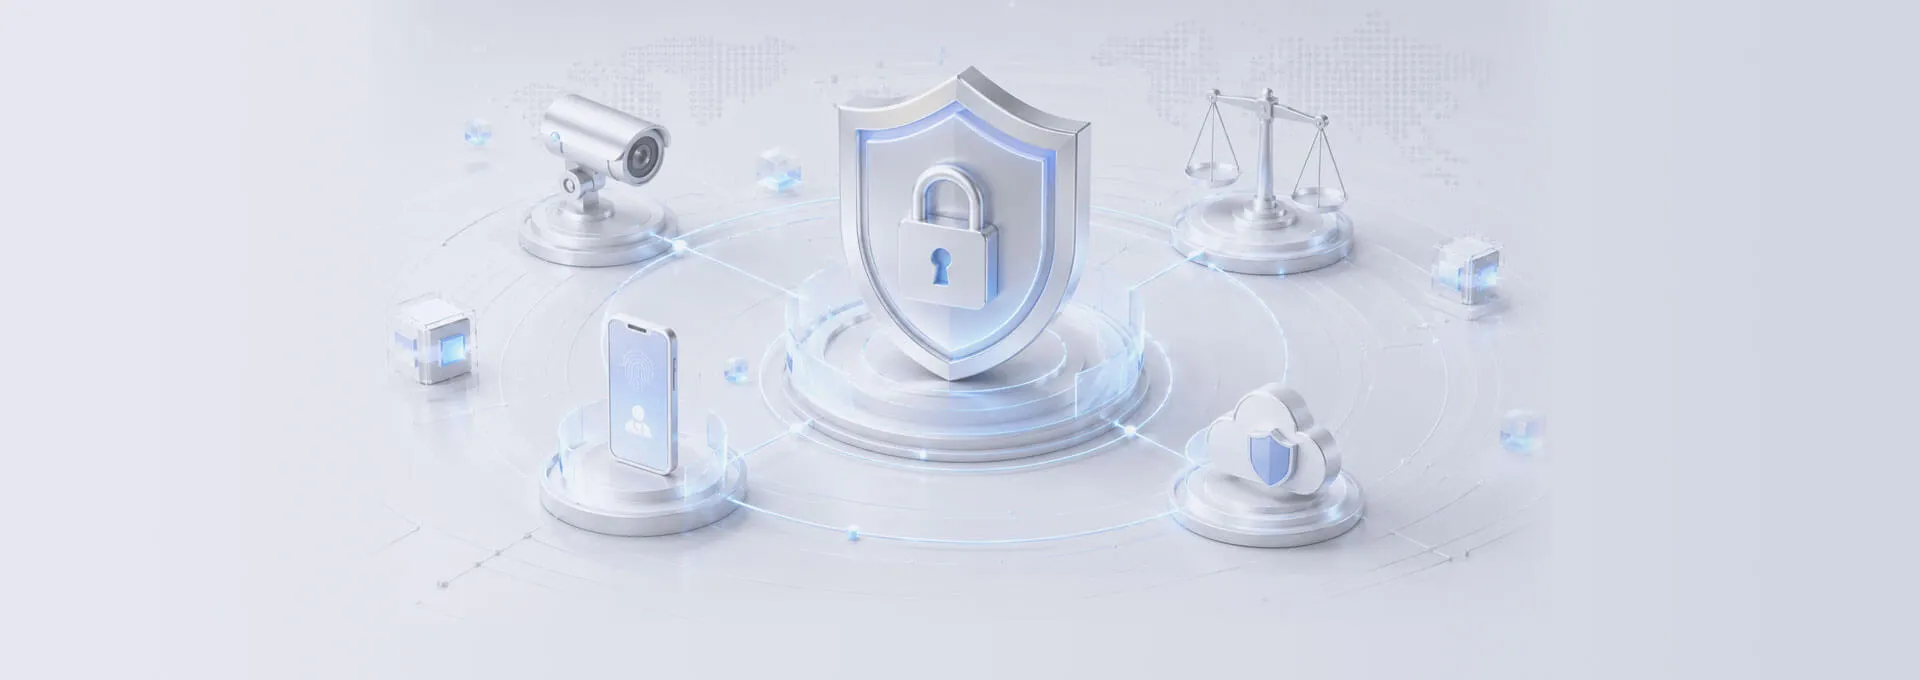
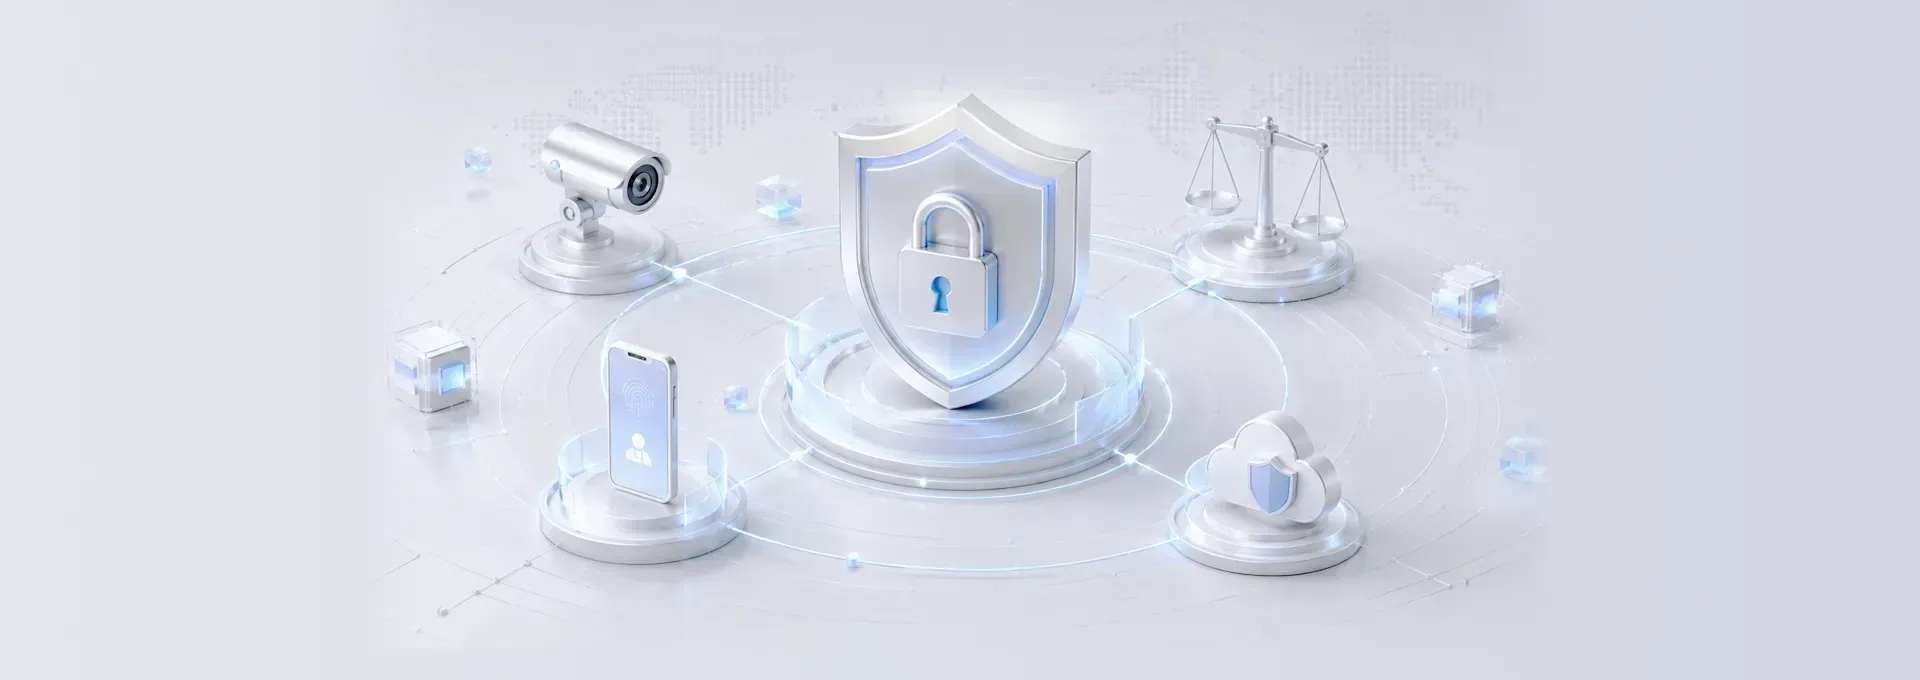
0731樣式修改

diff --git a/index-cn.html b/index-cn.html
@@ -6,8 +6,8 @@
 <meta name="viewport" content="width=device-width, user-scaleble=yes, initial-scale=1.0, maximum-scale=2.0" />
 <meta property="og:image" content="" />
 
-<title>MyCard形象官網</title>
-<meta name="description" content="MyCard形象官網">
+<title>MyCard形象官网</title>
+<meta name="description" content="MyCard形象官网">
 	
 <!-- favico -->
 <link rel="shortcut icon" type="image/x-icon" href="images/favicon_1.ico" />
@@ -115,42 +115,42 @@ $(function() {
 	  <div class="menu_icon"><img src="images/top_ber_menu.webp"></div>
 	  <div id="menu_list">
 		<div id="menu_close"><img src="images/top_ber_close.webp"></div>
-		<li id="tab1m">服務地區</li>
-		<li id="tab2m">整合行銷</li>
+		<li id="tab1m">服务地区</li>
+		<li id="tab2m">整合行销</li>
 		<li id="tab3m">安全交易</li>
 		<li id="tab4m">客服支援</li>
-		<li id="tab5m">合作廠商</li>
+		<li id="tab5m">合作厂商</li>
 		<li id="tab6m">合作流程</li>
 	  </div>
 	  <div class="logo"><img src="images/MyCard_logo.png"></div>
 	  <div class="menu">
-		<li id="tab1">服務地區</li>
-		<li id="tab2">整合行銷</li>
+		<li id="tab1">服务地区</li>
+		<li id="tab2">整合行销</li>
 		<li id="tab3">安全交易</li>
 		<li id="tab4">客服支援</li>
-		<li id="tab5">合作廠商</li>
+		<li id="tab5">合作厂商</li>
 		<li id="tab6">合作流程</li>
 	  </div>
-   	  <div class="btn">聯絡我們</div>
+   	  <div class="btn">联络我们</div>
     </div>
 	
 <!--主視覺-->
     <div id="main_visual">
 	  <div id="main_visual_title" data-wow-delay="0.2s" data-wow-offset="5" class="span3 wow bounceInRight center"></div>
-	  <div id="main_btn">聯絡我們</div>
+	  <div id="main_btn">联络我们</div>
 	  <div id="more"></div>
 	  <div id="diagram">
         <li class="p1">
-	      <h5><span class="amount">768</span>萬+</h5>
-		  <h6>MyCard會員數</h6>
+	      <h5><span class="amount">768</span>万+</h5>
+		  <h6>MyCard会员数</h6>
 		</li>
 		<dl class="p2">
-		  <h5><span class="amount">2210</span>萬+</h5>
-		  <h6>MyCard官網月流量</h6>
+		  <h5><span class="amount">2210</span>万+</h5>
+		  <h6>MyCard官网月流量</h6>
 		</dl>
 		<li class="p3">
-		  <h5><span class="amount">51</span>萬+</h5>
-		  <h6>MyCard社群人數</h6>
+		  <h5><span class="amount">51</span>万+</h5>
+		  <h6>MyCard社群人数</h6>
 		</li>
 		<dl class="p4">
 		  <h5><span class="amount">200+</h5>
@@ -158,39 +158,39 @@ $(function() {
 		</dl>
       </div>
     </div>
-    <!--全球遊戲支付領導品牌-->
+    <!--全球游戏支付领导品牌-->
     <div id="brand"> 
         <div class="text">
-		    <h1>全球遊戲支付領導品牌</h1>
-		    <h2>市占率第一、通路佈點最廣</h2>
-            <p>全面涵蓋臺灣、香港、澳門多元支付方式，是您進入華語及國際市場，觸及全球數億玩家及拓展遊戲版圖的最強合作夥伴。</p>
+		    <h1>全球游戏支付领导品牌</h1>
+		    <h2>市占率第一、通路布点最广</h2>
+            <p>全面涵盖台湾、香港、澳门多元支付方式，是您进入华语市场，触及数亿玩家的最强合作伙伴。</p>
 	    </div>
 		<div class="photo"><img src="images/brand_p1.webp"></div>
 	</div>
 	<div id="global_payment">
 		<h1>全球化的支付平台</h1>
-		<h2>簡單快速的支付流程</h2>
+		<h2>简单快速的支付流程</h2>
 		<ul>
 		  <li>
-			  <h1>國際佈局</h1>
-			  <p>MyCard於全球市場提供各地最受歡迎的支付方式。您只需透過MyCard，即可輕鬆開通全球支付，以最低開發成本快速完成全方位支付佈局。</p>
+			  <h1>国际布局</h1>
+			  <p>MyCard 于全球市场提供各地最受欢迎的支付方式。您只需透过MyCard，即可轻松开通全球支付，以最低开发成本快速完成全方位支付布局。</p>
 			  <div class="icon"><img src="images/global_payment_icon1.webp"></div>
 	      </li>
 		  <li>
 			  <h1>多元的支付方式</h1>
-			  <p>MyCard 提供最全面的多元支付，從線上支付到線下付款。包含信用卡、銀行轉帳、電信帳單、電子錢包、先買後付及商店繳費，MyCard全部都能支援。</p>
+			  <p>MyCard 提供最全面的多元支付，从线上支付到线下付款。包含信用卡、银行转帐、电信帐单、电子钱包、先买后付及商店缴费，MyCard 全部都能支援。</p>
 			  <div class="icon"><img src="images/global_payment_icon2.webp"></div>
 		  </li>
 		  <dl>
 			  <h1>MyCard點數</h1>
-			  <p>MyCard與台港各大便利商店、3C 賣場、連鎖賣場等實體通路夥伴，部署超過2萬個經銷點位，讓您的玩家隨時都能購買MyCard 點數。</p>
+			  <p>MyCard 与台港各大便利商店、3C 卖场、连锁卖场等实体通路伙伴，部署超过2万个经销点位，让您的玩家随时都能购买MyCard 点数。</p>
 			  <div class="icon2"><img src="images/global_payment_icon3.webp"></div>
 		  </dl>
 		</ul>
-		<dd>無論您的目標客戶身在何處，我們都能提供最符合當地習慣的支付服務，助您輕鬆實現全球化佈局</dd>
+		<dd>无论您的目标客户身在何处，我们都能提供最符合当地习惯的支付服务，助您轻松实现全球化布局</dd>
 	</div>
 	
-	<!--服務地區-->
+	<!--服务地区-->
 	<div id="map">
 <section class="world_map" data-aos="fade-up">
     <main class="app-main">
@@ -237,61 +237,61 @@ $(function() {
       <div id="methodTooltip" class="method-tooltip" role="tooltip"></div>
 	</div>
 
-	<!--整合行銷-->
+	<!--整合行销-->
 	<div id="marketing">
-	  <h1>整合行銷方案</h1>
-	  <h2>深耕遊戲領域多年，從遊戲推廣、多元支付到玩家服務</h2>
+	  <h1>整合行销方案</h1>
+	  <h2>深耕游戏领域多年，从游戏推广、多元支付到玩家服务</h2>
 	  <div class="step">
         <ul>
-		  <li data-wow-delay="0.1s" data-wow-offset="5" class="step1 span3 wow fadeInLeft center">品牌賦能</li>
+		  <li data-wow-delay="0.1s" data-wow-offset="5" class="step1 span3 wow fadeInLeft center">品牌赋能</li>
 		  <dl data-wow-delay="0.1s" data-wow-offset="5" class="step1_bg span3 wow fadeInLeft center">
 			  <div class="icon"><img src="images/marketing_icon1.webp"></div>
-			  <h3>行銷策略規劃</h3>
-			  <p>依遊戲特色規劃行銷主軸，整合故事、賣點與視覺，打造鮮明品牌資產並延續市場佈局。</p>
+			  <h3>行销策略规划</h3>
+			  <p>依游戏特色规划行销主轴，整合故事、卖点与视觉，打造鲜明品牌资产并延续市场布局。</p>
 		  </dl>
 		  <dl data-wow-delay="0.1s" data-wow-offset="5" class="step1_bg span3 wow fadeInLeft center">
 			  <div class="icon"><img src="images/marketing_icon2.webp"></div>
 			  <h3>品牌代言媒合</h3>
-			  <p>精選符合市場與遊戲風格的代言人及KOL，串聯多平台話題，提升品牌好感與聲量。</p>
+			  <p>精选符合市场与游戏风格的代言人及KOL，串联多平台话题，提升品牌好感与声量。</p>
 		  </dl>
 		</ul>
 		<ul>
-		  <li data-wow-delay="0.4s" data-wow-offset="5" class="step2 span3 wow fadeInLeft center">聲量造勢</li>
+		  <li data-wow-delay="0.4s" data-wow-offset="5" class="step2 span3 wow fadeInLeft center">声量造势</li>
 		   <dl data-wow-delay="0.4s" data-wow-offset="5" class="step2_bg span3 wow fadeInLeft center">
 			  <div class="icon"><img src="images/marketing_icon3.webp"></div>
-			  <h3>遊戲上市前預熱</h3>
-			  <p>運用MyCard通路與活動資源，推動事前登錄，快速累積玩家，擴大上市前聲量。</p>
+			  <h3>游戏上市前预热</h3>
+			  <p>运用 MyCard 通路与活动资源，推动事前登录，快速累积玩家，扩大上市前声量。</p>
 		  </dl>
 		  <dl data-wow-delay="0.4s" data-wow-offset="5" class="step2_bg span3 wow fadeInLeft center">
 			  <div class="icon"><img src="images/marketing_icon4.webp"></div>
-			  <h3>街頭玩家見面會<br>與活動策展</h3>
-			  <p>結合街頭玩家見面會、影音創作與活動策展，持續擴大新遊戲聲量與玩家互動。</p>
+			  <h3>街头玩家见面会<br>与活动策展</h3>
+			  <p>结合街头玩家见面会、影音创作与活动策展，持续扩大新游戏声量与玩家互动。</p>
 		  </dl>
 		</ul>
 		<ul>
 		  <li data-wow-delay="0.8s" data-wow-offset="5" class="step3 span3 wow fadeInLeft center">通路曝光</li>
 		  <dl data-wow-delay="0.8s" data-wow-offset="5" class="step3_bg span3 wow fadeInLeft center">
 			  <div class="icon"><img src="images/marketing_icon7.webp"></div>
-			  <h3>線上+線下全方位曝光</h3>
-			  <p>整合超商、銀行、賣場及線上廣告資源，打造高覆蓋推廣網，提升投放成效。</p>
+			  <h3>线上+线下全方位曝光</h3>
+			  <p>整合超商、银行、卖场及线上广告资源，打造高覆盖推广网，提升投放成效。</p>
 		  </dl>
 		  <dl data-wow-delay="0.8s" data-wow-offset="5" class="step3_bg span3 wow fadeInLeft center">
 			  <div class="icon"><img src="images/marketing_icon8.webp"></div>
-			  <h3>社群推廣&網站廣告</h3>
-			  <p>運用MyCard多平台資源，精準分眾行銷，提升互動與轉換。</p>
+			  <h3>社群推广&网站广告</h3>
+			  <p>运用 MyCard 多平台资源，精准分众行销，提升互动与转换。</p>
 		  </dl>
 		</ul>
 		<ul>
-		  <li data-wow-delay="1.2s" data-wow-offset="5" class="step4 span3 wow fadeInLeft center">異業聯名</li>
+		  <li data-wow-delay="1.2s" data-wow-offset="5" class="step4 span3 wow fadeInLeft center">异业联名</li>
 		  <dd data-wow-delay="1.2s" data-wow-offset="5" class="step4_bg span3 wow fadeInLeft center">
 			  <div class="icon"><img src="images/marketing_icon9.webp"></div>
-			  <h3>異業聯名企劃</h3>
-			  <p>整合品牌、餐飲、影視與零售資源，創造聯名話題與市場熱度。</p>
+			  <h3>异业联名企划</h3>
+			  <p>整合品牌、餐饮、影视与零售资源，创造联名话题与市场热度。</p>
 		  </dd>
 		  <dd data-wow-delay="1.2s" data-wow-offset="5" class="step4_bg span3 wow fadeInLeft center">
 			  <div class="icon"><img src="images/marketing_icon10.webp"></div>
-			  <h3>異業會員導流</h3>
-			  <p>串聯合作品牌會員生態圈，透過跨平台導流與異業點數兌換等機制，擴大玩家觸及並帶動新客獲取。</p>
+			  <h3>异业会员导流</h3>
+			  <p>串联合作品牌会员生态圈，透过跨平台导流与异业点数兑换等机制，扩大玩家触及并带动新客获取。</p>
 		  </dd>
 		</ul>
 	  </div>
@@ -299,27 +299,27 @@ $(function() {
 	
 	<!--安全交易-->
     <div id="security">
-      <h1>全方位交易安全解決方案</h1>
+      <h1>全方位交易安全解决方案</h1>
 	  <ul>
 		<li data-wow-delay="0.2s" data-wow-offset="5" class="span3 wow fadeInDown center">
 		  <dt><img src="images/security_icon1.webp"></dt>
-		  <h5>全天候智慧監控</h5>
-		  <p>24小時智慧監控，快速偵測異常交易，即時攔截詐欺與盜刷，全面守護客戶安全。</p>
+		  <h5>全天候智慧监控</h5>
+		  <p>24小时智慧监控，快速侦测异常交易，即时拦截诈欺与盗刷，全面守护客户安全。</p>
 		</li>
 		<li data-wow-delay="0.2s" data-wow-offset="5" class="span3 wow fadeInUp center">
 		  <dt><img src="images/security_icon2.webp"></dt>
-		  <h5>專業退單仲裁</h5>
-		  <p>MyCard 團隊的標準化退單仲裁流程，協助處理爭議，保障您的權益。</p>
+		  <h5>专业退单仲裁</h5>
+		  <p>MyCard 团队的标准化退单仲裁流程，协助处理争议，保障您的权益。</p>
 		</li>
 		<li data-wow-delay="0.2s" data-wow-offset="5" class="span3 wow fadeInDown center">
 		  <dt><img src="images/security_icon3.webp"></dt>
-		  <h5>FIDO無密碼驗證</h5>
-		  <p>導入FIDO驗證，防止帳號盜用，登入更安全便利，是保障資安與體驗的未來趨勢。</p>  
+		  <h5>FIDO无密码验证</h5>
+		  <p>导入FIDO验证，防止帐号盗用，登入更安全便利，是保障资安与体验的未来趋势。</p>  
 		</li>
 		<dl data-wow-delay="0.2s" data-wow-offset="5" class="span3 wow fadeInUp center">
 		  <dt><img src="images/security_icon4.webp"></dt>
-		  <h5>彈性風控策略</h5>
-		  <p>支援彈性風控設定，強化安全防護，降低交易風險，讓防線更貼合遊戲營運需求。</p>  
+		  <h5>弹性风控策略</h5>
+		  <p>支援弹性风控设定，强化安全防护，降低交易风险，让防线更贴合游戏营运需求。</p>  
 		</dl>
 	  </ul>
 	</div>
@@ -330,27 +330,26 @@ $(function() {
         <ul>
 	     <li>
             <ol><img src="images/customer_service_icon1.webp"></ol>
-	        <h6>消費體驗回饋</h6>
-	        <p>透過消費服務的回饋，轉化為玩家對您的遊戲品牌信任與持續消費。</p>
+	        <h6>消费体验回馈</h6>
+	        <p>透过消费服务的回馈，转化为玩家对您的游戏品牌信任与持续消费。</p>
           </li>
 	      <li>
 	        <ol><img src="images/customer_service_icon2.webp"></ol>
-	        <h6>全天候即時客服</h6>
-	        <p>MyCard提供24小時不間斷售後服務。確保玩家隨時順利儲值，加速您的遊戲成長與市場連結。</p>
+	        <h6>全天候即时客服</h6>
+	        <p>MyCard 提供24小时不间断售后服务。确保玩家随时顺利储值，加速您的游戏成长与市场连结。</p>
 	      </li>
 	      <dl>
 	        <ol><img src="images/customer_service_icon3.webp"></ol>
-	        <h6>跨語言支援</h6>
-	        <p>MyCard客服涵蓋中文、泰文、英文、印尼文等多語種，協助您處理跨國的支付與服務問題。</p>
+	        <h6>跨语言支援</h6>
+	        <p>MyCard 客服涵盖中文、泰文、英文、印尼文等多语种，协助您处理跨国的支付与服务问题。</p>
 	      </dl>
         </ul>
     </div>
 	
 	<!--選擇MyCard-->
 <div id="choice">
-  <h1>超過上千家遊戲公司選擇MyCard</h1>
-  <h2>MyCard支付平台深受台日韓頂尖手遊廠商信賴，攜手超過80%遊戲廠商，共創繁盛。<br>
-  更與PC端遊共同打造，提供玩家最好的支付體驗。</h2>
+  <h1>超过上千家游戏公司选择 MyCard</h1>
+  <h2>MyCard 支付平台深受台日韩顶尖手游厂商信赖，携手超过80%游戏厂商，共创繁盛。<br>更与PC端游共同打造，提供玩家最好的支付体验。</h2>
     	<ul data-wow-delay="0.2s" data-wow-offset="20" class="span3 wow bounceInRight center">
 	      <li><img src="images/game_icon/best_choice_1.webp"></li>
 	      <li><img src="images/game_icon/best_choice_2.webp"></li>
@@ -425,33 +424,33 @@ $(function() {
 	
 	<!--合作流程-->
 <div id="cooperate">
-		<h1>MyCard合作流程</h1>
-		<h2>我們建立簡單清楚的合作流程，讓客戶快速贏得優勢</h2>
+		<h1>MyCard 合作流程</h1>
+		<h2>我们建立简单清楚的合作流程，让客户快速赢得优势</h2>
 		<ul>
 		  <li>
 		    <dt>Step.1</dt>
-		    <dd>洽談合作</dd>
+		    <dd>洽谈合作</dd>
 		    <div data-wow-delay="0.1s" data-wow-offset="5" class="sample span3 wow lightSpeedIn center"><img src="images/cooperate_step1.webp"></div>
-			<ol>聯絡MyCard提出合作事宜<br>並簽訂合約</ol>
+			<ol>联络 MyCard 提出合作事宜<br>并签订合约</ol>
 		  </li>
 		  <li>
 			<dt>Step.2</dt>
-			<dd>技術串接</dd>
+			<dd>技术串接</dd>
 			<div data-wow-delay="0.2s" data-wow-offset="5" class="sample span3 wow lightSpeedIn center"><img src="images/cooperate_step2.webp"></div>
-		  	<ol>簡易串接流程<br>提供完整串接文件</ol>
+		  	<ol>简易串接流程<br>提供完整串接文件</ol>
 		  </li>
 		  <dl>
 			<dt>Step.3</dt>
-			<dd>行銷推廣</dd>
+			<dd>行销推广</dd>
 			<div data-wow-delay="0.4s" data-wow-offset="5" class="sample span3 wow lightSpeedIn center"><img src="images/cooperate_step3.webp"></div>
-			<ol>實施行銷策略<br>以提高知名度</ol>
+			<ol>实施行销策略<br>以提高知名度</ol>
 		  </dl>
 		</ul>
 	</div>
 	
 	<!--聯絡我們-->
 <div id="connect">
-	  <div class="button heartbeat animation">前往聯絡我們</div>
+	  <div class="button heartbeat animation">前往联络我们</div>
 	</div>
 	
 	<!--回到頂端鈕-->

diff --git a/css/LM.css b/css/LM.css
@@ -289,11 +289,11 @@ body {
 	margin:1% 0 0 0;
 	padding:0 0;
 	font-family: "微軟正黑體";
-	font-size: 28px;
-	line-height: 48px;
+	font-size: 26px;
+	line-height: 36px;
 	font-weight: normal;
 	color: #666666;
-	text-align:left;
+	text-align:justify;
 	display:inline;
 	float:left;
 }
@@ -958,8 +958,8 @@ body {
 	margin:0 0 2% 0;
 	padding:0.5% 0 3.5% 0;
 	font-family: "微軟正黑體";
-	font-size: 24px;
-	line-height: 30px;
+	font-size: 22px;
+	line-height: 28px;
 	font-weight: bold;
 	color: #333333;
 	text-align:center;

diff --git a/css/L.css b/css/L.css
@@ -293,7 +293,7 @@ body {
 	line-height: 48px;
 	font-weight: normal;
 	color: #666666;
-	text-align:left;
+	text-align:justify;
 	display:inline;
 	float:left;
 }
